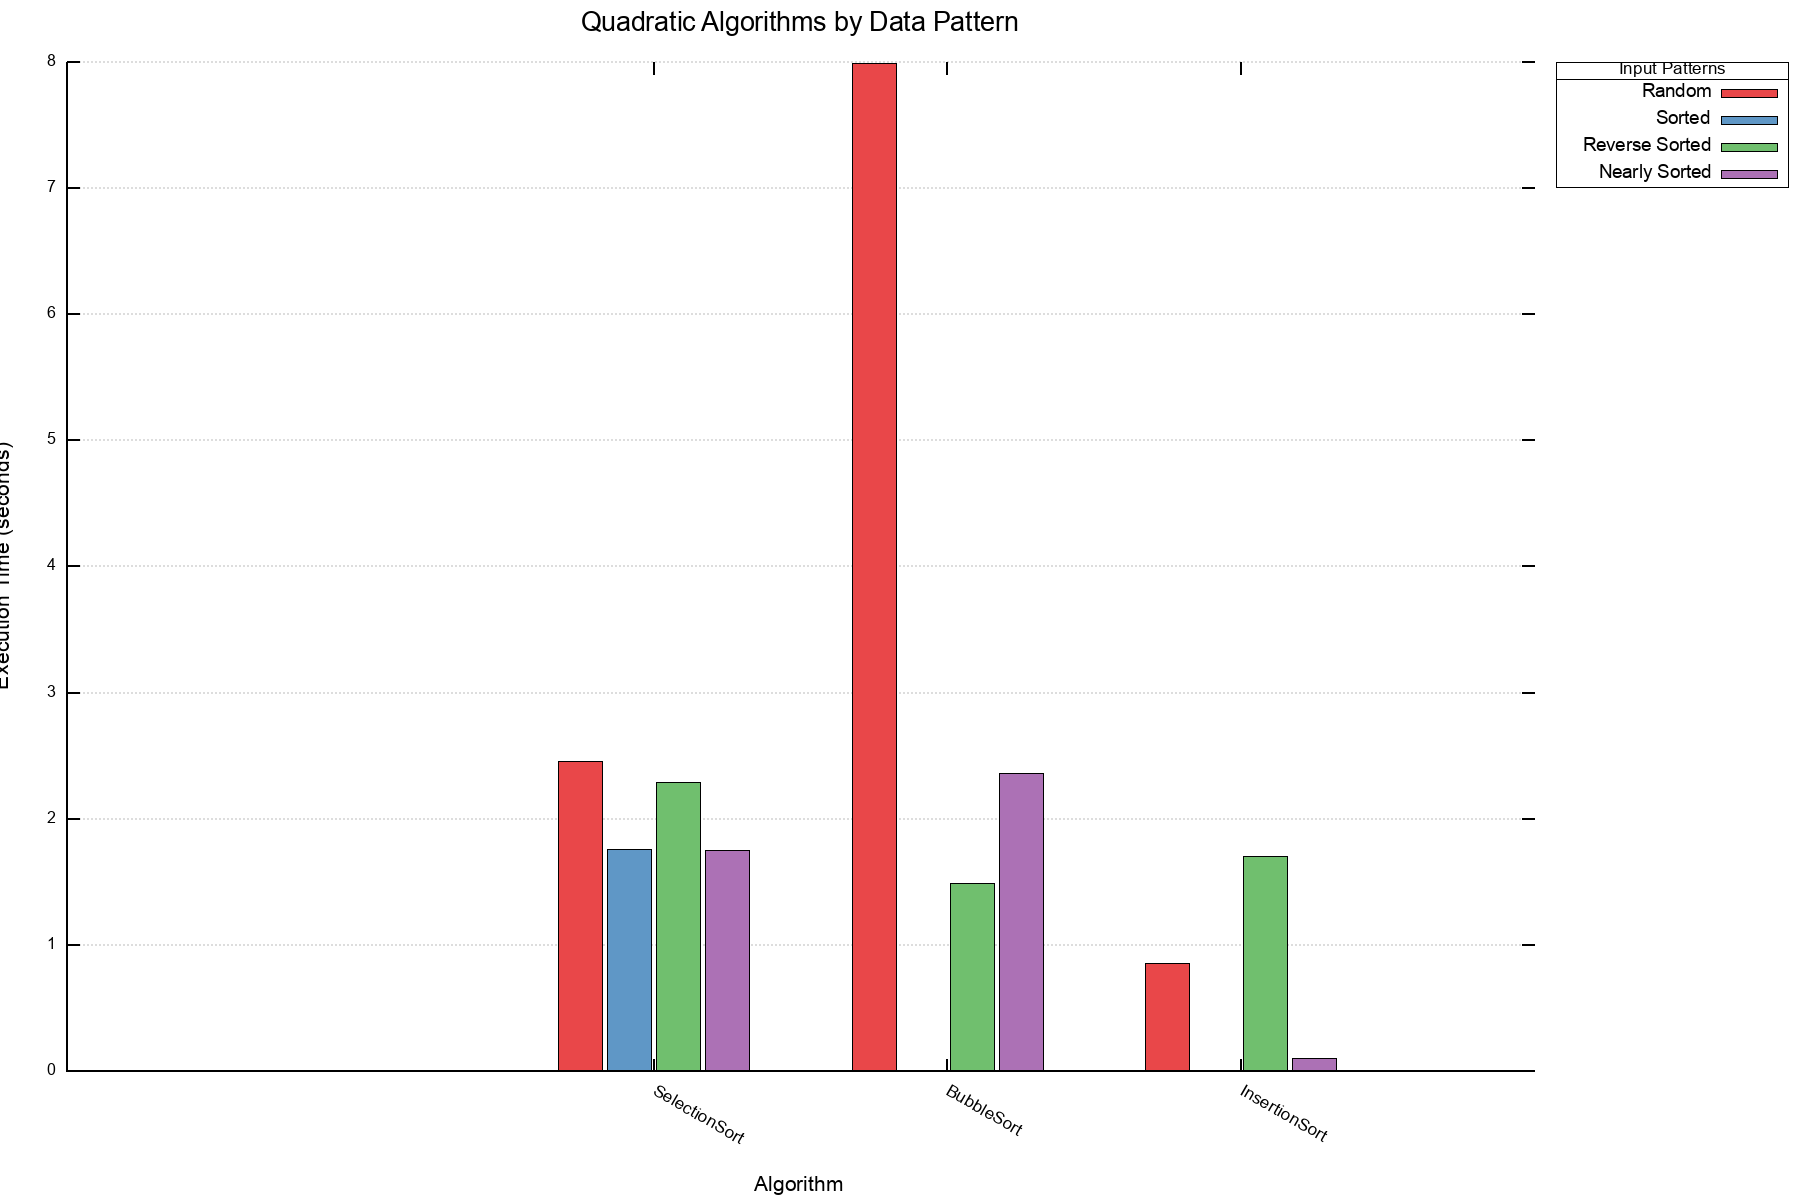
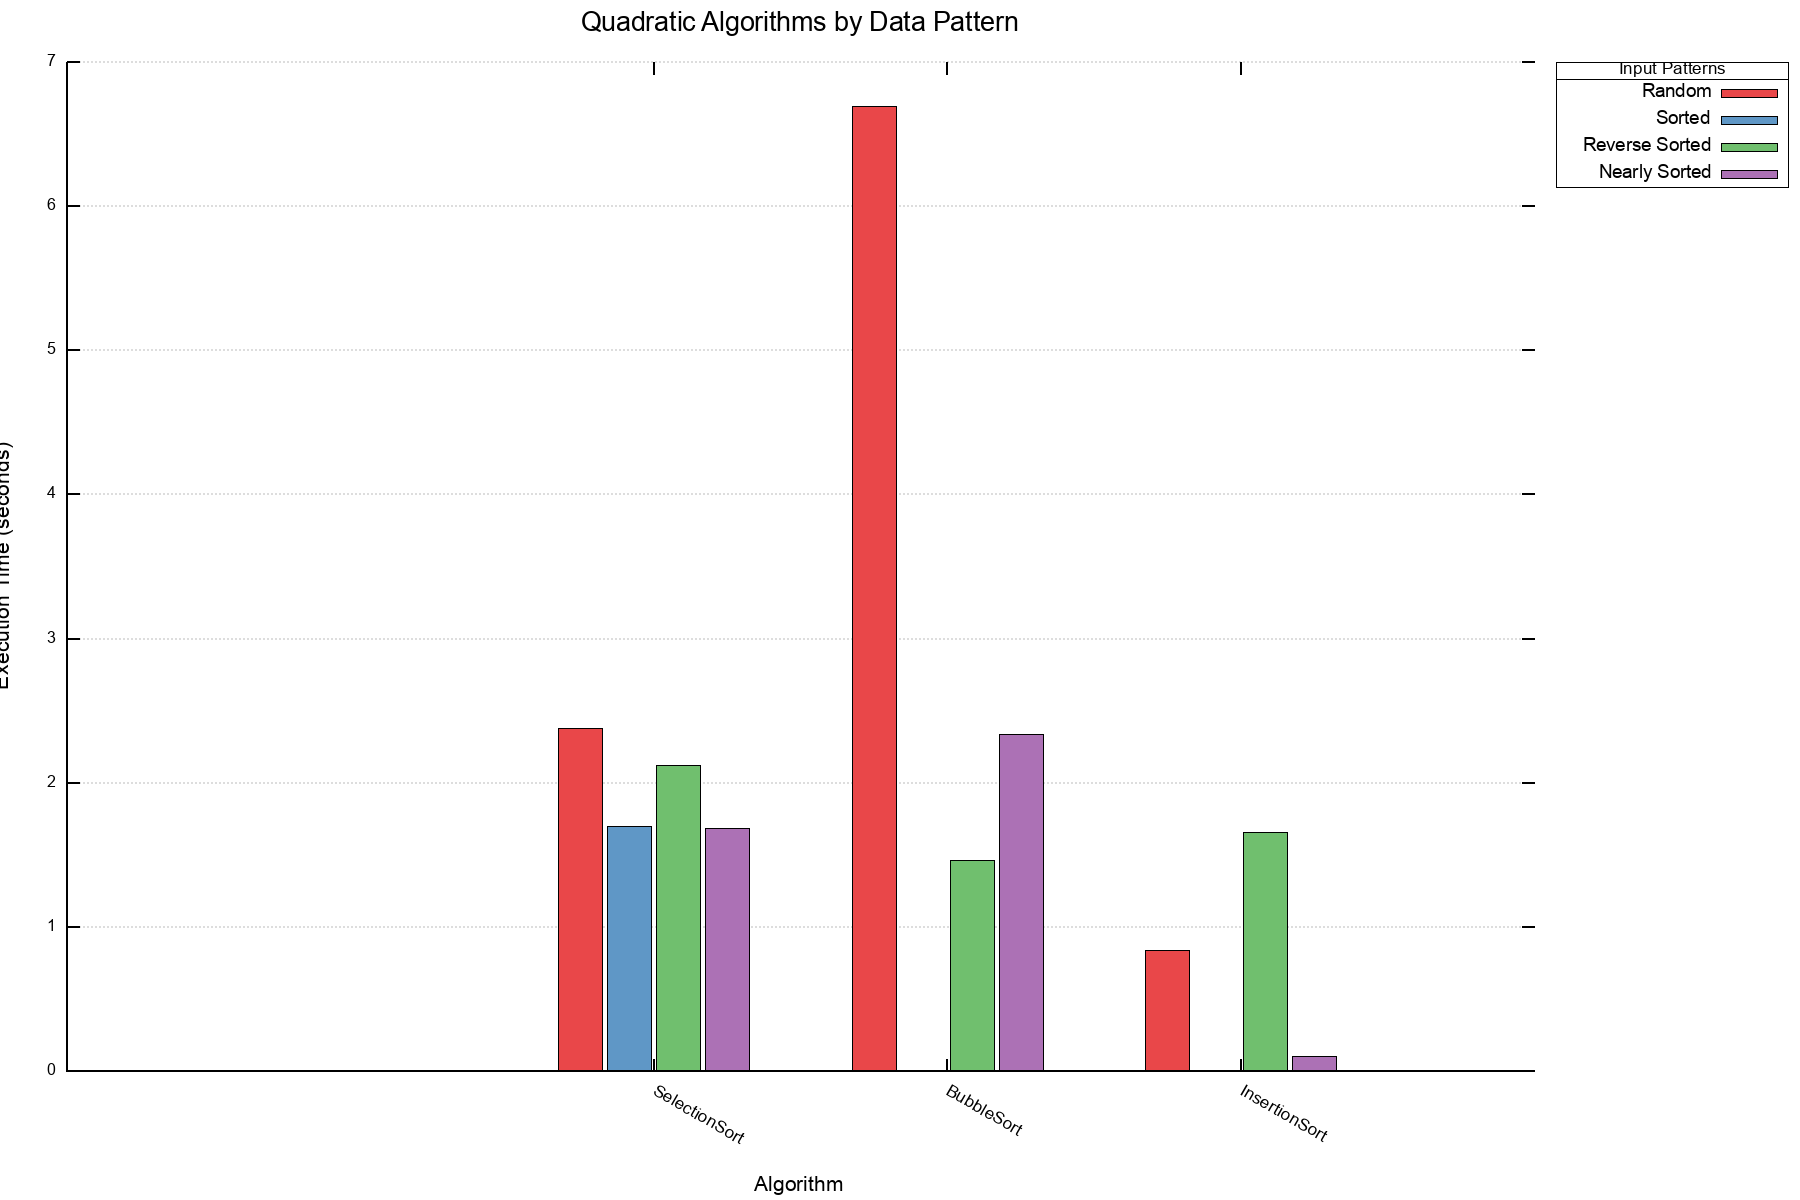
docs: Complete size benchmark tables with missing data points
- Add 6 missing sizes (5K, 50K, 500K, 2M, 5M, 50M) to O(n log n) table
- Add 6 missing sizes to O(n) table
- Add missing 20K row to stats scaling table
- Update benchmark results and regenerate plots

diff --git a/README.md b/README.md
@@ -83,40 +83,42 @@ Time in seconds (s):
 
 | Algorithm | Random | Sorted | Reverse Sorted | Nearly Sorted |
 |-----------|--------|--------|----------------|---------------|
-| Selection Sort | `2.47` | `1.74` | `2.25` | `1.79` |
-| Bubble Sort | `6.63` | `0.00003` | `1.49` | `2.30` |
-| Insertion Sort | `0.88` | `0.00004` | `1.69` | `0.11` |
+| Selection Sort | `2.38` | `1.70` | `2.13` | `1.69` |
+| Bubble Sort | `6.69` | `0.00003` | `1.46` | `2.34` |
+| Insertion Sort | `0.84` | `0.00004` | `1.66` | `0.10` |
 
 **Key observations:**
 - Bubble and Insertion sort achieve near-O(n) performance on sorted input (early-exit optimization).
-- Selection sort has the same comparison count ($N(N-1)/2$) regardless of pattern, but execution times vary (`1.74`–`2.47`) due to differences in memory access patterns, branch prediction, and swap counts (0 swaps for sorted vs N/2 for reverse-sorted).
+- Selection sort has the same comparison count ($N(N-1)/2$) regardless of pattern, but execution times vary (`1.69`–`2.38`) due to differences in memory access patterns, branch prediction, and swap counts (0 swaps for sorted vs N/2 for reverse-sorted).
 - Insertion sort is the fastest quadratic algorithm for random data.
 
 #### $O(n \log n)$ Algorithms (n = 5,000,000)
 
 | Algorithm | Random | Sorted | Reverse Sorted | Nearly Sorted |
 |-----------|--------|--------|----------------|---------------|
-| Merge Sort | `0.53` | `0.36` | `0.36` | `0.46` |
-| Quick Sort | `0.33` | `0.12` | `0.13` | `0.18` |
-| Heap Sort | `0.52` | `0.35` | `0.36` | `0.44` |
-| Shell Sort | `0.69` | `0.06` | `0.10` | `0.58` |
+| Merge Sort | `0.50` | `0.36` | `0.36` | `0.45` |
+| Quick Sort | `0.33` | `0.12` | `0.13` | `0.17` |
+| Heap Sort | `0.50` | `0.35` | `0.34` | `0.39` |
+| Shell Sort | `0.68` | `0.06` | `0.10` | `0.57` |
 
 **Key observations:**
 - Quick sort (random pivot) is the fastest on most patterns, but Shell sort outperforms it on fully sorted data (`0.06` vs `0.12`).
 - Merge sort is the most consistent across patterns.
-- Shell sort excels on sorted/reverse-sorted data. On nearly-sorted data, it performs better than random data (`0.58` vs `0.69`) but is less efficient compared to Quick sort (`0.18`).
+- Shell sort excels on sorted/reverse-sorted data. On nearly-sorted data, it performs better than random data (`0.57` vs `0.68`) but is less efficient compared to Quick sort (`0.17`).
 - Shell sort uses the standard $n/2$ gap sequence, which is less optimal than advanced sequences (e.g., Ciura). This contributes to its relatively lower performance on random and nearly-sorted patterns.
 
 #### $O(n)$ Algorithms (n = 50,000,000)
 
 | Algorithm | Random | Sorted | Reverse Sorted | Nearly Sorted |
 |-----------|--------|--------|----------------|---------------|
-| Counting Sort | `0.31` | `0.09` | `0.07` | `0.28` |
-| Radix Sort | `0.50` | `0.71` | `0.65` | `0.67` |
+| Counting Sort | `0.30` | `0.09` | `0.07` | `0.28` |
+| Radix Sort | `0.50` | `0.63` | `0.62` | `0.63` |
+| Bucket Sort | `1.93` | `0.29` | `0.85` | `1.89` |
 
 **Key observations:**
 - Counting sort is the fastest when the value range is bounded.
 - Radix sort is relatively pattern-insensitive but shows slightly slower performance on sorted/reverse-sorted data due to memory access patterns.
+- Bucket sort shows significant pattern sensitivity: sorted data is ~6.6x faster than random due to more balanced bucket distribution.
 
 ### 3.2 Size Benchmark Results (Random Pattern)
 
@@ -126,12 +128,12 @@ Time in seconds (s):
 
 | Size | Selection Sort | Bubble Sort | Insertion Sort |
 |------|----------------|-------------|----------------|
-| 100 | `0.000016` | `0.000009` | `0.000002` |
-| 1,000 | `0.001704` | `0.000323` | `0.000121` |
-| 5,000 | `0.051362` | `0.006096` | `0.002093` |
-| 10,000 | `0.052629` | `0.024535` | `0.008940` |
-| 20,000 | `0.186399` | `0.096269` | `0.033596` |
-| 100,000 | `2.452065` | `6.591625` | `0.849394` |
+| 100 | `0.000016` | `0.000008` | `0.000003` |
+| 1,000 | `0.001436` | `0.000327` | `0.000109` |
+| 5,000 | `0.024949` | `0.006248` | `0.002098` |
+| 10,000 | `0.056520` | `0.025638` | `0.008738` |
+| 20,000 | `0.170039` | `0.099150` | `0.032896` |
+| 100,000 | `2.377631` | `6.578173` | `0.830533` |
 
 #### $O(n^2)$ Best Case (Sorted Input)
 
@@ -139,34 +141,46 @@ Time in seconds (s):
 |------|-------------|----------------|
 | 100 | `0.000000` | `0.000000` |
 | 1,000 | `0.000000` | `0.000001` |
-| 5,000 | `0.000001` | `0.000003` |
-| 10,000 | `0.000004` | `0.000006` |
-| 20,000 | `0.000009` | `0.000017` |
-| 100,000 | `0.000037` | `0.000056` |
+| 5,000 | `0.000002` | `0.000003` |
+| 10,000 | `0.000004` | `0.000005` |
+| 20,000 | `0.000006` | `0.000011` |
+| 100,000 | `0.000037` | `0.000053` |
 
 #### $O(n\log n)$ Algorithms
 
 | Size | Merge Sort | Quick Sort | Heap Sort | Shell Sort |
 |------|------------|------------|-----------|------------|
-| 100 | `0.000012` | `0.000004` | `0.000003` | `0.000017` |
-| 1,000 | `0.000104` | `0.000051` | `0.000033` | `0.000074` |
-| 10,000 | `0.000832` | `0.000438` | `0.000416` | `0.000711` |
-| 100,000 | `0.009211` | `0.005350` | `0.005989` | `0.010483` |
-| 1,000,000 | `0.096160` | `0.060919` | `0.078841` | `0.124613` |
-| 10,000,000 | `1.024658` | `0.675500` | `1.258083` | `1.469666` |
-| 100,000,000 | `11.087366` | `8.629399` | `39.067889` | `19.842090` |
+| 100 | `0.000015` | `0.000005` | `0.000004` | `0.000004` |
+| 1,000 | `0.000119` | `0.000049` | `0.000044` | `0.000059` |
+| 5,000 | `0.000460` | `0.000228` | `0.000196` | `0.000311` |
+| 10,000 | `0.000834` | `0.000447` | `0.000419` | `0.000699` |
+| 50,000 | `0.004495` | `0.002404` | `0.002512` | `0.004087` |
+| 100,000 | `0.009064` | `0.005406` | `0.005710` | `0.008653` |
+| 500,000 | `0.046434` | `0.029407` | `0.035372` | `0.052414` |
+| 1,000,000 | `0.093346` | `0.059900` | `0.077448` | `0.113612` |
+| 2,000,000 | `0.189798` | `0.121819` | `0.171032` | `0.248315` |
+| 5,000,000 | `0.498220` | `0.318080` | `0.484706` | `0.663862` |
+| 10,000,000 | `1.013984` | `0.666794` | `1.241786` | `1.488929` |
+| 50,000,000 | `5.239889` | `3.764441` | `14.324264` | `8.787021` |
+| 100,000,000 | `10.673617` | `8.469764` | `38.775906` | `19.490871` |
 
 #### $O(n)$ Algorithms
 
-| Size | Counting Sort | Radix Sort |
-|------|---------------|------------|
-| 100 | `0.000599` | `0.000003` |
-| 1,000 | `0.000557` | `0.000018` |
-| 10,000 | `0.000386` | `0.000115` |
-| 100,000 | `0.000699` | `0.001030` |
-| 1,000,000 | `0.003587` | `0.010058` |
-| 10,000,000 | `0.053088` | `0.100978` |
-| 100,000,000 | `0.591969` | `1.057056` |
+| Size | Counting Sort | Radix Sort | Bucket Sort |
+|------|---------------|------------|-------------|
+| 100 | `0.000573` | `0.000003` | `0.000009` |
+| 1,000 | `0.000569` | `0.000014` | `0.000059` |
+| 5,000 | `0.000576` | `0.000066` | `0.000109` |
+| 10,000 | `0.000390` | `0.000114` | `0.000246` |
+| 50,000 | `0.000499` | `0.000507` | `0.001478` |
+| 100,000 | `0.000618` | `0.001062` | `0.003799` |
+| 500,000 | `0.002022` | `0.005684` | `0.020151` |
+| 1,000,000 | `0.004041` | `0.010099` | `0.042704` |
+| 2,000,000 | `0.006698` | `0.019480` | `0.088547` |
+| 5,000,000 | `0.019949` | `0.049409` | `0.216429` |
+| 10,000,000 | `0.051101` | `0.099486` | `0.428693` |
+| 50,000,000 | `0.288844` | `0.498158` | `1.928340` |
+| 100,000,000 | `0.587506` | `1.018998` | `3.797613` |
 
 ### 3.3 Operation Count Analysis (Bubble Sort)
 
@@ -191,6 +205,7 @@ Time in seconds (s):
 | 1,000 | `498,275` | `245,886` | `0.000955` |
 | 5,000 | `12,495,609` | `6,205,093` | `0.020` |
 | 10,000 | `49,967,034` | `25,063,713` | `0.041` |
+| 20,000 | `199,943,029` | `100,215,146` | `0.119` |
 | 50,000 | `1,249,970,149` | `626,215,467` | `1.69` |
 
 **Key observations:**
